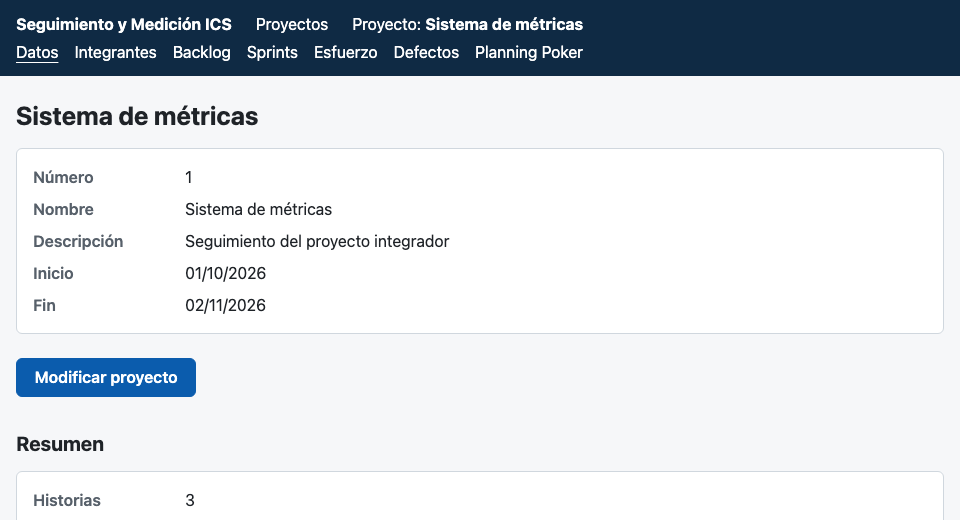
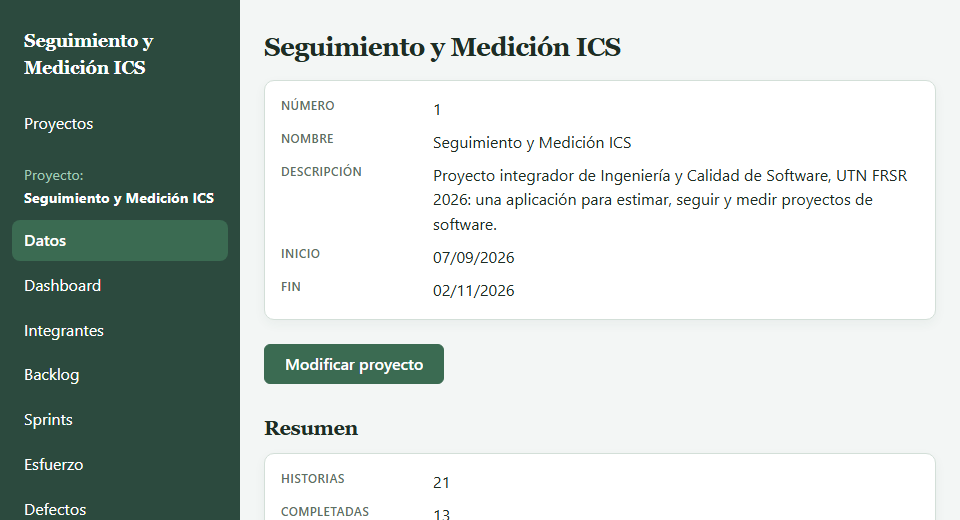
docs: el manual con el rediseño visual (barra lateral y capturas nuevas)
- La barra de navegacion pasa a la izquierda con el rediseño del PR #214,
  y en el celular va arriba.
- Las 15 capturas se rehicieron con el estilo nuevo y los datos de demo de
  nuestro proyecto, en los mismos estados que las anteriores.

diff --git a/docs/manual-de-usuario.md b/docs/manual-de-usuario.md
@@ -53,9 +53,10 @@ navegador. No hace falta internet. Para cerrarlo, volvé a la terminal y apretá
 
 ### Cómo se usa
 
-- **La barra de arriba** lleva siempre a la lista de proyectos. Dentro de un proyecto,
+- **La barra de la izquierda** lleva siempre a la lista de proyectos. Dentro de un proyecto,
   muestra su nombre y sus partes: **Datos**, **Dashboard**, **Integrantes**, **Backlog**,
-  **Sprints**, **Esfuerzo**, **Defectos** y **Planning Poker**.
+  **Sprints**, **Esfuerzo**, **Defectos** y **Planning Poker**, con la parte abierta
+  resaltada. En el celular, la barra pasa arriba y las partes se recorren de costado.
 - **Cada cambio se confirma** con un mensaje en verde arriba de la página. Recargar la página
   no repite el cambio.
 - **Si algo está mal**, el formulario vuelve con lo que escribiste y el motivo en rojo,
